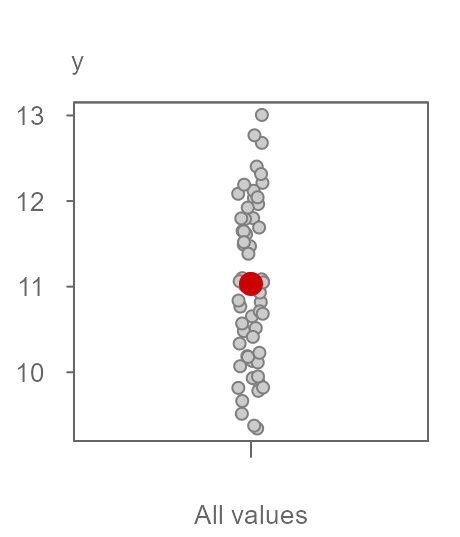
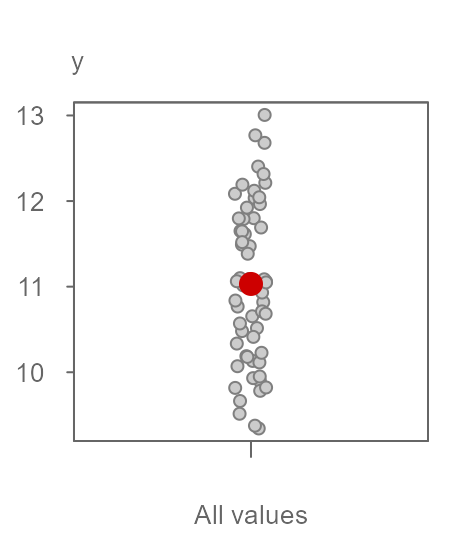
continued with edits

Changed region(s): [[0.487, 0.5065, 0.6087, 0.8045], [0.487, 0.1788, 0.6087, 0.4767]]

diff --git a/docs/articles/rfs.html b/docs/articles/rfs.html
@@ -79,7 +79,7 @@
                         <h4 data-toc-skip class="author">Manuel
 Gimond</h4>
             
-            <h4 data-toc-skip class="date">2024-10-03</h4>
+            <h4 data-toc-skip class="date">2024-10-04</h4>
       
       <small class="dont-index">Source: <a href="https://github.com/mgimond/tukeyedar/blob/HEAD/vignettes/rfs.Rmd" class="external-link"><code>vignettes/rfs.Rmd</code></a></small>
       <div class="d-none name"><code>rfs.Rmd</code></div>
@@ -87,11 +87,6 @@ Gimond</h4>
 
     
     
-<div class="sourceCode" id="cb1"><pre class="sourceCode css"><code class="sourceCode css"><span id="cb1-1"><a href="#cb1-1" tabindex="-1"></a><span class="fu">.caption</span> {</span>
-<span id="cb1-2"><a href="#cb1-2" tabindex="-1"></a>    <span class="kw">text-align</span><span class="ch">:</span> <span class="dv">center</span> <span class="at">!important</span><span class="op">;</span></span>
-<span id="cb1-3"><a href="#cb1-3" tabindex="-1"></a>    <span class="kw">color</span><span class="ch">:</span> <span class="cn">darkgrey</span><span class="op">;</span></span>
-<span id="cb1-4"><a href="#cb1-4" tabindex="-1"></a>    <span class="kw">font-style</span><span class="ch">:</span> <span class="dv">italic</span><span class="op">;</span></span>
-<span id="cb1-5"><a href="#cb1-5" tabindex="-1"></a>}</span></code></pre></div>
 <style type="text/css">
 .caption {
     text-align: center !important;
@@ -122,29 +117,29 @@ contribution)</li>
 <p>Let’s start with a simple dataset where a batch of sixty
 observations.</p>
 <div class="figure" style="text-align: center">
-<img src="rfs_files/figure-html/unnamed-chunk-3-1.png" alt="Figure 1. A batch of 60 values with the mean value represented as a red point." width="230.4"><p class="caption">
+<img src="rfs_files/figure-html/unnamed-chunk-3-1.png" alt="Figure 1. A batch of 60 values with the mean value represented as a red point. The points are jittered about the x-axis to help visualize their distribution." width="230.4"><p class="caption">
 Figure 1. A batch of 60 values with the mean value represented as a red
-point.
+point. The points are jittered about the x-axis to help visualize their
+distribution.
 </p>
 </div>
 <p>At best, we can estimate the expected value using some summary
 statistic such as the mean (red point in figure 1)–11.03 in this working
 example. This gives us quite a bit of variability in predicting
-<code>y</code> given that the noise in the data covers a range of 9.34,
-13.01 or around 4 units.</p>
+<code>y</code> given that the noise in the data covers a range of around
+9, 13 or around 4 units.</p>
 <p>If we want to improve our estimation of the value in <code>y</code>,
 we may want to add a grouping variable to the mix. In Figure 2, we see
-that the samme set of values are now split across groups <code>a</code>,
+that the same set of values are now split across groups <code>a</code>,
 <code>b</code> and <code>c</code>. Doing so, in this example, seems to
 reduce the variability, or the “randomness” in our estimation of
 <code>y</code>, given that by knowing which group <code>y</code> falls
 into, we can come up with a more precise estimate of the value while
-reducing the undertainty associated with that estimate.</p>
+reducing the uncertainty associated with that estimate.</p>
 <div class="figure" style="text-align: center">
-<img src="rfs_files/figure-html/unnamed-chunk-4-1.png" alt="Figure 2. Same batch of values split across three groups with each group's mean displayed as a red point values with the mean value represented as a red point." width="220.8"><p class="caption">
+<img src="rfs_files/figure-html/unnamed-chunk-4-1.png" alt="Figure 2. Same batch of values split across three groups with each group's mean displayed as a red point." width="220.8"><p class="caption">
 Figure 2. Same batch of values split across three groups with each
-group’s mean displayed as a red point values with the mean value
-represented as a red point.
+group’s mean displayed as a red point.
 </p>
 </div>
 <p>Eyeballing the three batches, it seems that the residuals in the data
@@ -170,10 +165,10 @@ residual values lie
 </div>
 <p>The bisque colored inner region in the Figure 3 violin plots
 highlight where 50% of the mid values lie in the distributions. The
-<em>significance</em> in our ability to correctly estimate the mean
-values of <span class="math inline">\(y\)</span> increases by quite a
-bit when focusing on the inner 50% of residuals (2 units / 0.5 units or
-a four fold difference in spreads between estimates and residuals).</p>
+improvement in our ability to correctly estimate the mean values of
+<span class="math inline">\(y\)</span> increases by quite a bit when
+focusing on the inner 50% of residuals (2 units / 0.5 units = four fold
+difference in spreads between estimates and residuals).</p>
 <p>Now, if we choose to focus on the inner 95% of the residuals, the
 difference in spreads between fitted values and residuals becomes a bit
 more modest as can be seen in Figure 4.</p>
@@ -187,42 +182,160 @@ Figure 4. Violin plots. The bisque colored inner region highlights where
 <code>a</code>) to 4 units (batch <code>b</code>). On average, we can
 say that the spread in residuals covers roughly 3.5 units. This makes
 the spread in fitted values about half of the spread in residuals when
-characterize as the mid 95% of values.</p>
+the latter is characterized as the mid 95% of residual values.</p>
 <p>One can quickly see how our assessment of the value in adding a
 grouping variable to the data can be biased based on what mid portion of
-the resdiuals we should emphasize. For example, we probably don’t want
+the residuals we should emphasize. For example, we probably don’t want
 to focus on the full range since outliers may not be representative of
 the full dataset. Conversely, the mid 50% of residuals may be too
 restrictive. Ideally, we would want to have a plot that does not place
-emphasis on a single measure of spread when comparing spreads in fitted
-values to spreads in residuals. A Cleveland residual-fit spread plot
-(rfs for short) is designed to facilitate the comparison of spreads. Key
-elements of the plot should include:</p>
+emphasis on a single measure of spread when comparing spreads between
+fitted values and residuals. A Cleveland residual-fit spread plot (rfs
+for short) does away with this shortcoming. Key elements of the plot
+should include:</p>
 <ul>
-<li>Placing ephasis on the spreads of the fitted values and not their
+<li>Placing emphasis on the spreads of the fitted values and not their
 absolute values. This requires that the overall mean value be subtracted
 from the fitted values to center the latter around zero (this aligns the
-center of the fitted values with the residuals which are centered around
-zero by construct).</li>
+center of the fitted values with that of the residuals which are
+centered around zero by design).</li>
 <li>Order the fitted values and the residuals based on their respective
-ranks. This facilitates the comparison of pre-specified percentage of
-inner spread such as the 50% or 95% spreads used in the earlier
-examples</li>
+ranks. This facilitates the comparison of a wide range of measures of
+spreads such as the 50% or 95% spreads used in the earlier
+examples.</li>
 </ul>
 <p>The above criteria can be satisfied by making use of side-by-side
 quantile plots where a quantile plot of the fitted values (minus the
-global mean) are paired up with a quantile plot of the residuals. The
+global mean) is paired up with a quantile plot of the residuals. The
 residual-fit spread plot for the working example is shown in figure
 5.</p>
 <div class="figure" style="text-align: center">
-<img src="rfs_files/figure-html/unnamed-chunk-7-1.png" alt="Figure 5. A residual-fit spread plot. Each observation is split between its fitted value--the group mean--(left plot) and its residual (right plot). To facilitate comparison between both plots, the mean values are centered on zero and the data are sorted giving use side-by-side quantile plots. The x-axis is the fraction of values (f-value) in each plot that are at or below the matching value on the y-axis." width="480"><p class="caption">
+<img src="rfs_files/figure-html/unnamed-chunk-7-1.png" alt="Figure 5. A residual-fit spread plot. Each observation is split between a quantile plot of fitted value minus group mean (left plot) and a quantile plot of residuals (right plot). To facilitate comparison between both plots, the mean values are centered on zero and the data are sorted giving use side-by-side quantile plots. The x-axis displays the fraction of values (f-value) in each plot that are at or below the matching value on the y-axis." width="480"><p class="caption">
 Figure 5. A residual-fit spread plot. Each observation is split between
-its fitted value–the group mean–(left plot) and its residual (right
-plot). To facilitate comparison between both plots, the mean values are
-centered on zero and the data are sorted giving use side-by-side
-quantile plots. The x-axis is the fraction of values (f-value) in each
-plot that are at or below the matching value on the y-axis.
+a quantile plot of fitted value minus group mean (left plot) and a
+quantile plot of residuals (right plot). To facilitate comparison
+between both plots, the mean values are centered on zero and the data
+are sorted giving use side-by-side quantile plots. The x-axis displays
+the fraction of values (f-value) in each plot that are at or below the
+matching value on the y-axis.
 </p>
+</div>
+<p>What looks to be three horizontal lines on the left plot in Figure 5
+are simply overlapping points–one point for each observation. Since an
+observation falls into one of the three groups, many observations will
+share the same fitted value. The rfs plot makes it easy to see that the
+spread in fitted mean values covers a range of 2 units on the y-axis.
+The right plot is constructed from the residuals for each observation
+(this is part of the observation value not explained by its fitted
+mean).</p>
+<p>For example, the last observation in the original dataset has a value
+of <code>11.05</code> and is part of group <code>c</code>. Its value can
+be decomposed into its group mean of 11.98 and its residual of ‘-0.93’
+as follows:</p>
+<span class="math display">\[
+11.05 = 11.98 - 0.93
+\]</span>
+<div class="figure" style="text-align: center">
+<img src="rfs_files/figure-html/unnamed-chunk-8-1.png" alt="Figure 6. Green point has a value of 11.05. It's decomposed into its group mean of 11.98 and its residual of -0.93. " width="268.8"><p class="caption">
+Figure 6. Green point has a value of 11.05. It’s decomposed into its
+group mean of 11.98 and its residual of -0.93.
+</p>
+</div>
+<p>That observation’s mean and residual values are highlighted as green
+points in Figure 6.</p>
+<div class="figure" style="text-align: center">
+<img src="rfs_files/figure-html/unnamed-chunk-9-1.png" alt="Figure 7. The  last observation is split between it fitted mean (centered on 0) and its residual. " width="480"><p class="caption">
+Figure 7. The last observation is split between it fitted mean (centered
+on 0) and its residual.
+</p>
+</div>
+<p>The same process is applied to all other observations resulting in
+the same number of points in both plots as total number of observations
+in the batch.</p>
+<p>The rfs plot facilitates the comparison of both spreads by sharing
+the same y axis and by having both spreads centered on 0. In this
+working example, the spreads are about identical suggesting that the
+grouping variable can help explain some of the variability in the
+data.</p>
+<p>To help develop an intuitive feel for the interpretation of the plot,
+we can explore two extreme scenarios. In this first scenario, we
+generate a dataset where much of the variability in the data can be
+explained by the fitted model. Figure 8 shows a plot of such a dataset.
+Note the tight spread in residuals around each fitted means.</p>
+<div class="figure" style="text-align: center">
+<img src="rfs_files/figure-html/unnamed-chunk-10-1.png" alt="Figure 8. Another example." width="230.4"><p class="caption">
+Figure 8. Another example.
+</p>
+</div>
+<p>Figure 9 shows the matching rfs plot.</p>
+<div class="figure" style="text-align: center">
+<img src="rfs_files/figure-html/unnamed-chunk-11-1.png" alt="Figure 9. The spread in the fitted mean values spans 2 units along the y-axis. The residuals span less than 0.5 units suggesting that the fitted mean values do a good job in estimating the values in y." width="480"><p class="caption">
+Figure 9. The spread in the fitted mean values spans 2 units along the
+y-axis. The residuals span less than 0.5 units suggesting that the
+fitted mean values do a good job in estimating the values in y.
+</p>
+</div>
+<p>The groups do a really good job in predicting a value <code>y</code>
+if the observation’s group is known since the error surrounding each
+group estimate is small relative to the spread or differences in the
+fitted mean values. In other words, an observation associated with a
+group is very unlikely to be confused with a value from another group
+given the large spread between group means versus the spread in the
+residuals or uncertainty surrounding an observation in each group.</p>
+<p>In this next example, we look at the other extreme: one where the
+spread in fitted means is small relative to the uncertainty surrounding
+each fitted value:</p>
+<div class="figure" style="text-align: center">
+<img src="rfs_files/figure-html/unnamed-chunk-12-1.png" alt="Figure 10. Another example." width="230.4"><p class="caption">
+Figure 10. Another example.
+</p>
+</div>
+<p>The rfs plot of the data is shown in Figure 11.</p>
+<div class="figure" style="text-align: center">
+<img src="rfs_files/figure-html/unnamed-chunk-13-1.png" alt="Figure 11. " width="480"><p class="caption">
+Figure 11.
+</p>
+</div>
+<p>With this last dataset, the spread in residuals is quite important
+relative to the spread in fitted values. This suggests that the grouping
+variables do not have a large effect in predicting a value
+<code>y</code> given that the uncertainty in its value can make it
+comparable to another group’s value.</p>
+<div class="section level3">
+<h3 id="generating-an-rfs-plot-with-eda_rfs">Generating an rfs plot with eda_rfs<a class="anchor" aria-label="anchor" href="#generating-an-rfs-plot-with-eda_rfs"></a>
+</h3>
+<p>The first dataset offered in the introduction can be recreated as
+follows:</p>
+<div class="sourceCode" id="cb1"><pre class="downlit sourceCode r">
+<code class="sourceCode R"><span><span class="fu"><a href="https://rdrr.io/r/base/Random.html" class="external-link">set.seed</a></span><span class="op">(</span><span class="fl">9591</span><span class="op">)</span></span>
+<span><span class="va">df</span> <span class="op">&lt;-</span> <span class="fu"><a href="https://rdrr.io/r/base/data.frame.html" class="external-link">data.frame</a></span><span class="op">(</span>y <span class="op">=</span> <span class="fu"><a href="https://rdrr.io/r/stats/Normal.html" class="external-link">rnorm</a></span><span class="op">(</span><span class="fl">60</span>, mean <span class="op">=</span> <span class="fu"><a href="https://rdrr.io/r/base/c.html" class="external-link">c</a></span><span class="op">(</span><span class="fl">10</span>,<span class="fl">11</span>, <span class="fl">12</span><span class="op">)</span>, sd <span class="op">=</span> <span class="fl">0.5</span><span class="op">)</span>, </span>
+<span>                 group <span class="op">=</span> <span class="fu"><a href="https://rdrr.io/r/base/rep.html" class="external-link">rep</a></span><span class="op">(</span><span class="fu"><a href="https://rdrr.io/r/base/c.html" class="external-link">c</a></span><span class="op">(</span><span class="st">"a"</span>,<span class="st">"b"</span>,<span class="st">"c"</span><span class="op">)</span>, times <span class="op">=</span> <span class="fl">20</span><span class="op">)</span><span class="op">)</span></span></code></pre></div>
+<p>To generate an rfs plot, type:</p>
+<div class="sourceCode" id="cb2"><pre class="downlit sourceCode r">
+<code class="sourceCode R"><span><span class="kw"><a href="https://rdrr.io/r/base/library.html" class="external-link">library</a></span><span class="op">(</span><span class="va"><a href="https://mgimond.github.io/tukeyedar/">tukeyedar</a></span><span class="op">)</span></span>
+<span></span>
+<span><span class="fu"><a href="../reference/eda_rfs.html">eda_rfs</a></span><span class="op">(</span><span class="va">df</span>, <span class="va">y</span>, <span class="va">group</span><span class="op">)</span></span></code></pre></div>
+<div class="figure" style="text-align: center">
+<img src="rfs_files/figure-html/unnamed-chunk-15-1.png" alt="Figure 12. An rfs plot generated using the eda_rfs() function." width="480"><p class="caption">
+Figure 12. An rfs plot generated using the eda_rfs() function.
+</p>
+</div>
+<p>In addition to generating a plot, the function will also output some
+summary statistics of the spreads.</p>
+<pre><code><span><span class="co">#&gt;  The mid 68.3% of residuals covers about 0.90 units.</span></span>
+<span><span class="co">#&gt;  The fitted values cover a range of about 1.87 units,</span></span>
+<span><span class="co">#&gt;  or about 207.3% of the mid 68.3% of residuals.</span></span></code></pre>
+<p>By default, the function will focus on the inner 68.3% of the spread
+(what would be equivalent to a standard deviation if the residuals were
+normally distributed). You can view this region on the plot by setting
+the <code>q</code> parameter to <code>TRUE</code>.</p>
+<div class="sourceCode" id="cb4"><pre class="downlit sourceCode r">
+<code class="sourceCode R"><span><span class="fu"><a href="../reference/eda_rfs.html">eda_rfs</a></span><span class="op">(</span><span class="va">df</span>, <span class="va">y</span>, <span class="va">group</span>, q <span class="op">=</span> <span class="cn">TRUE</span><span class="op">)</span></span></code></pre></div>
+<div class="figure" style="text-align: center">
+<img src="rfs_files/figure-html/unnamed-chunk-17-1.png" alt="Figure 12. An rfs plot generated using the eda_rfs() function." width="480"><p class="caption">
+Figure 12. An rfs plot generated using the eda_rfs() function.
+</p>
+</div>
 </div>
 </div>
   </main><aside class="col-md-3"><nav id="toc"><h2>On this page</h2>
